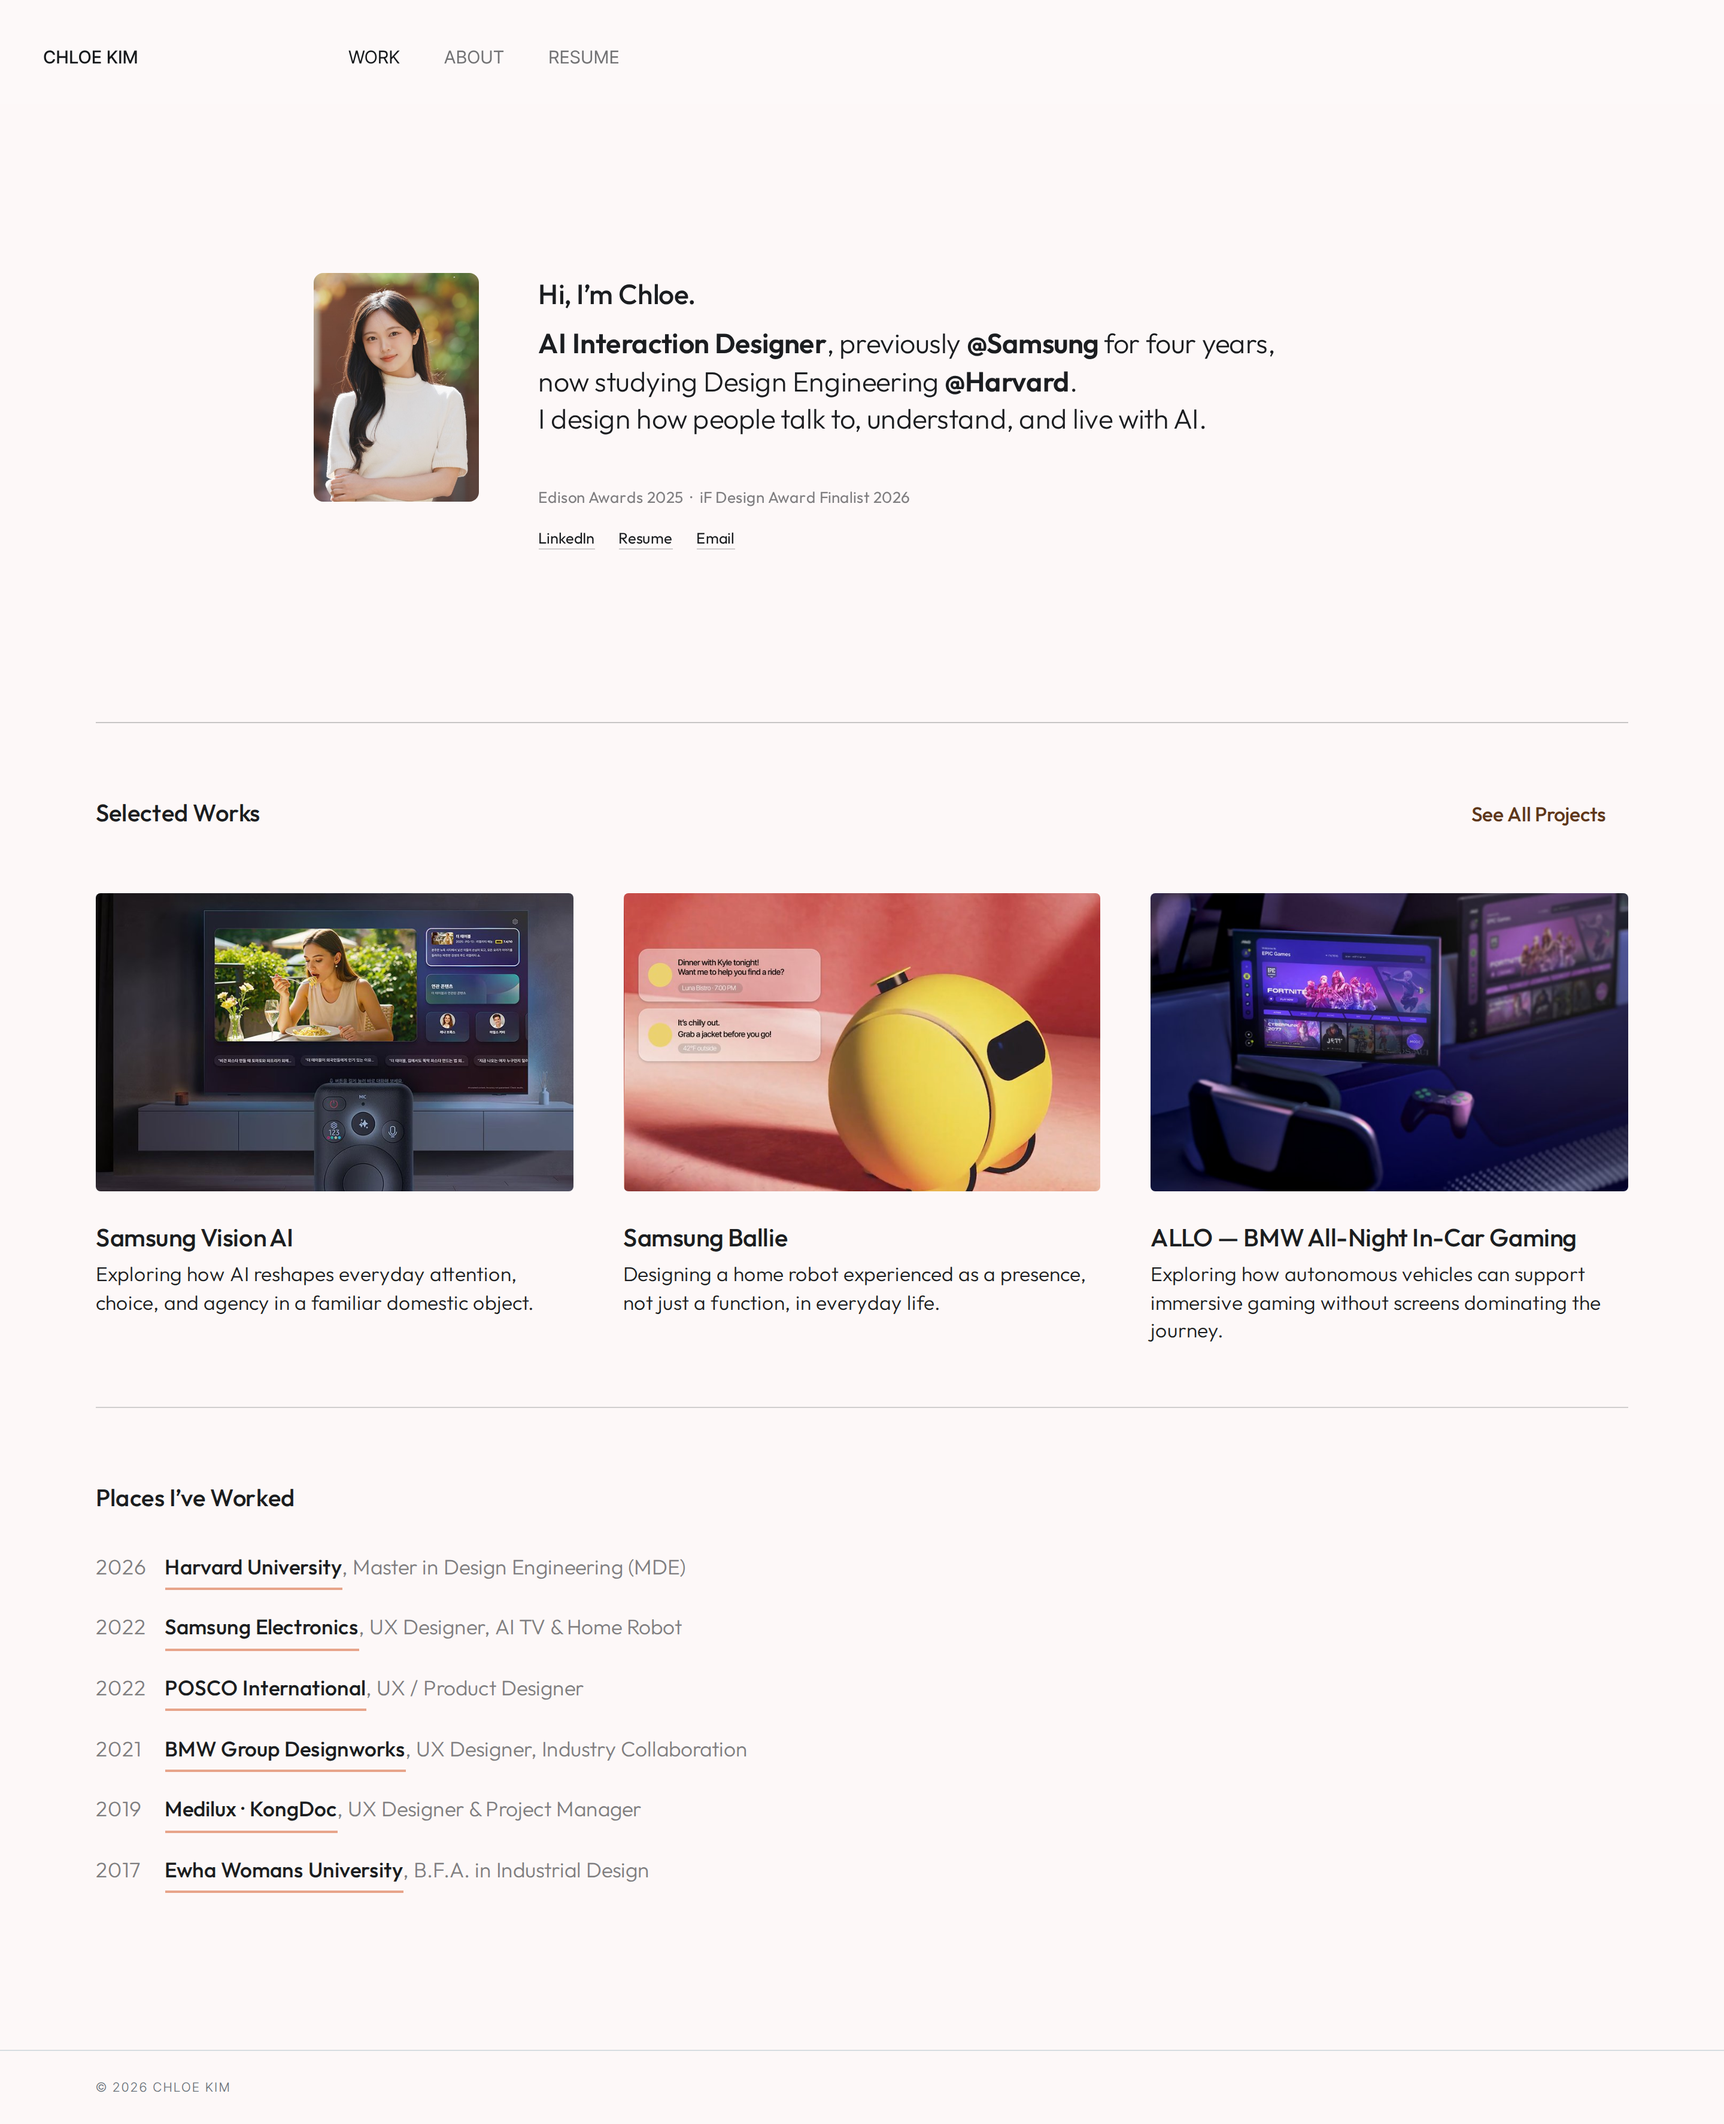
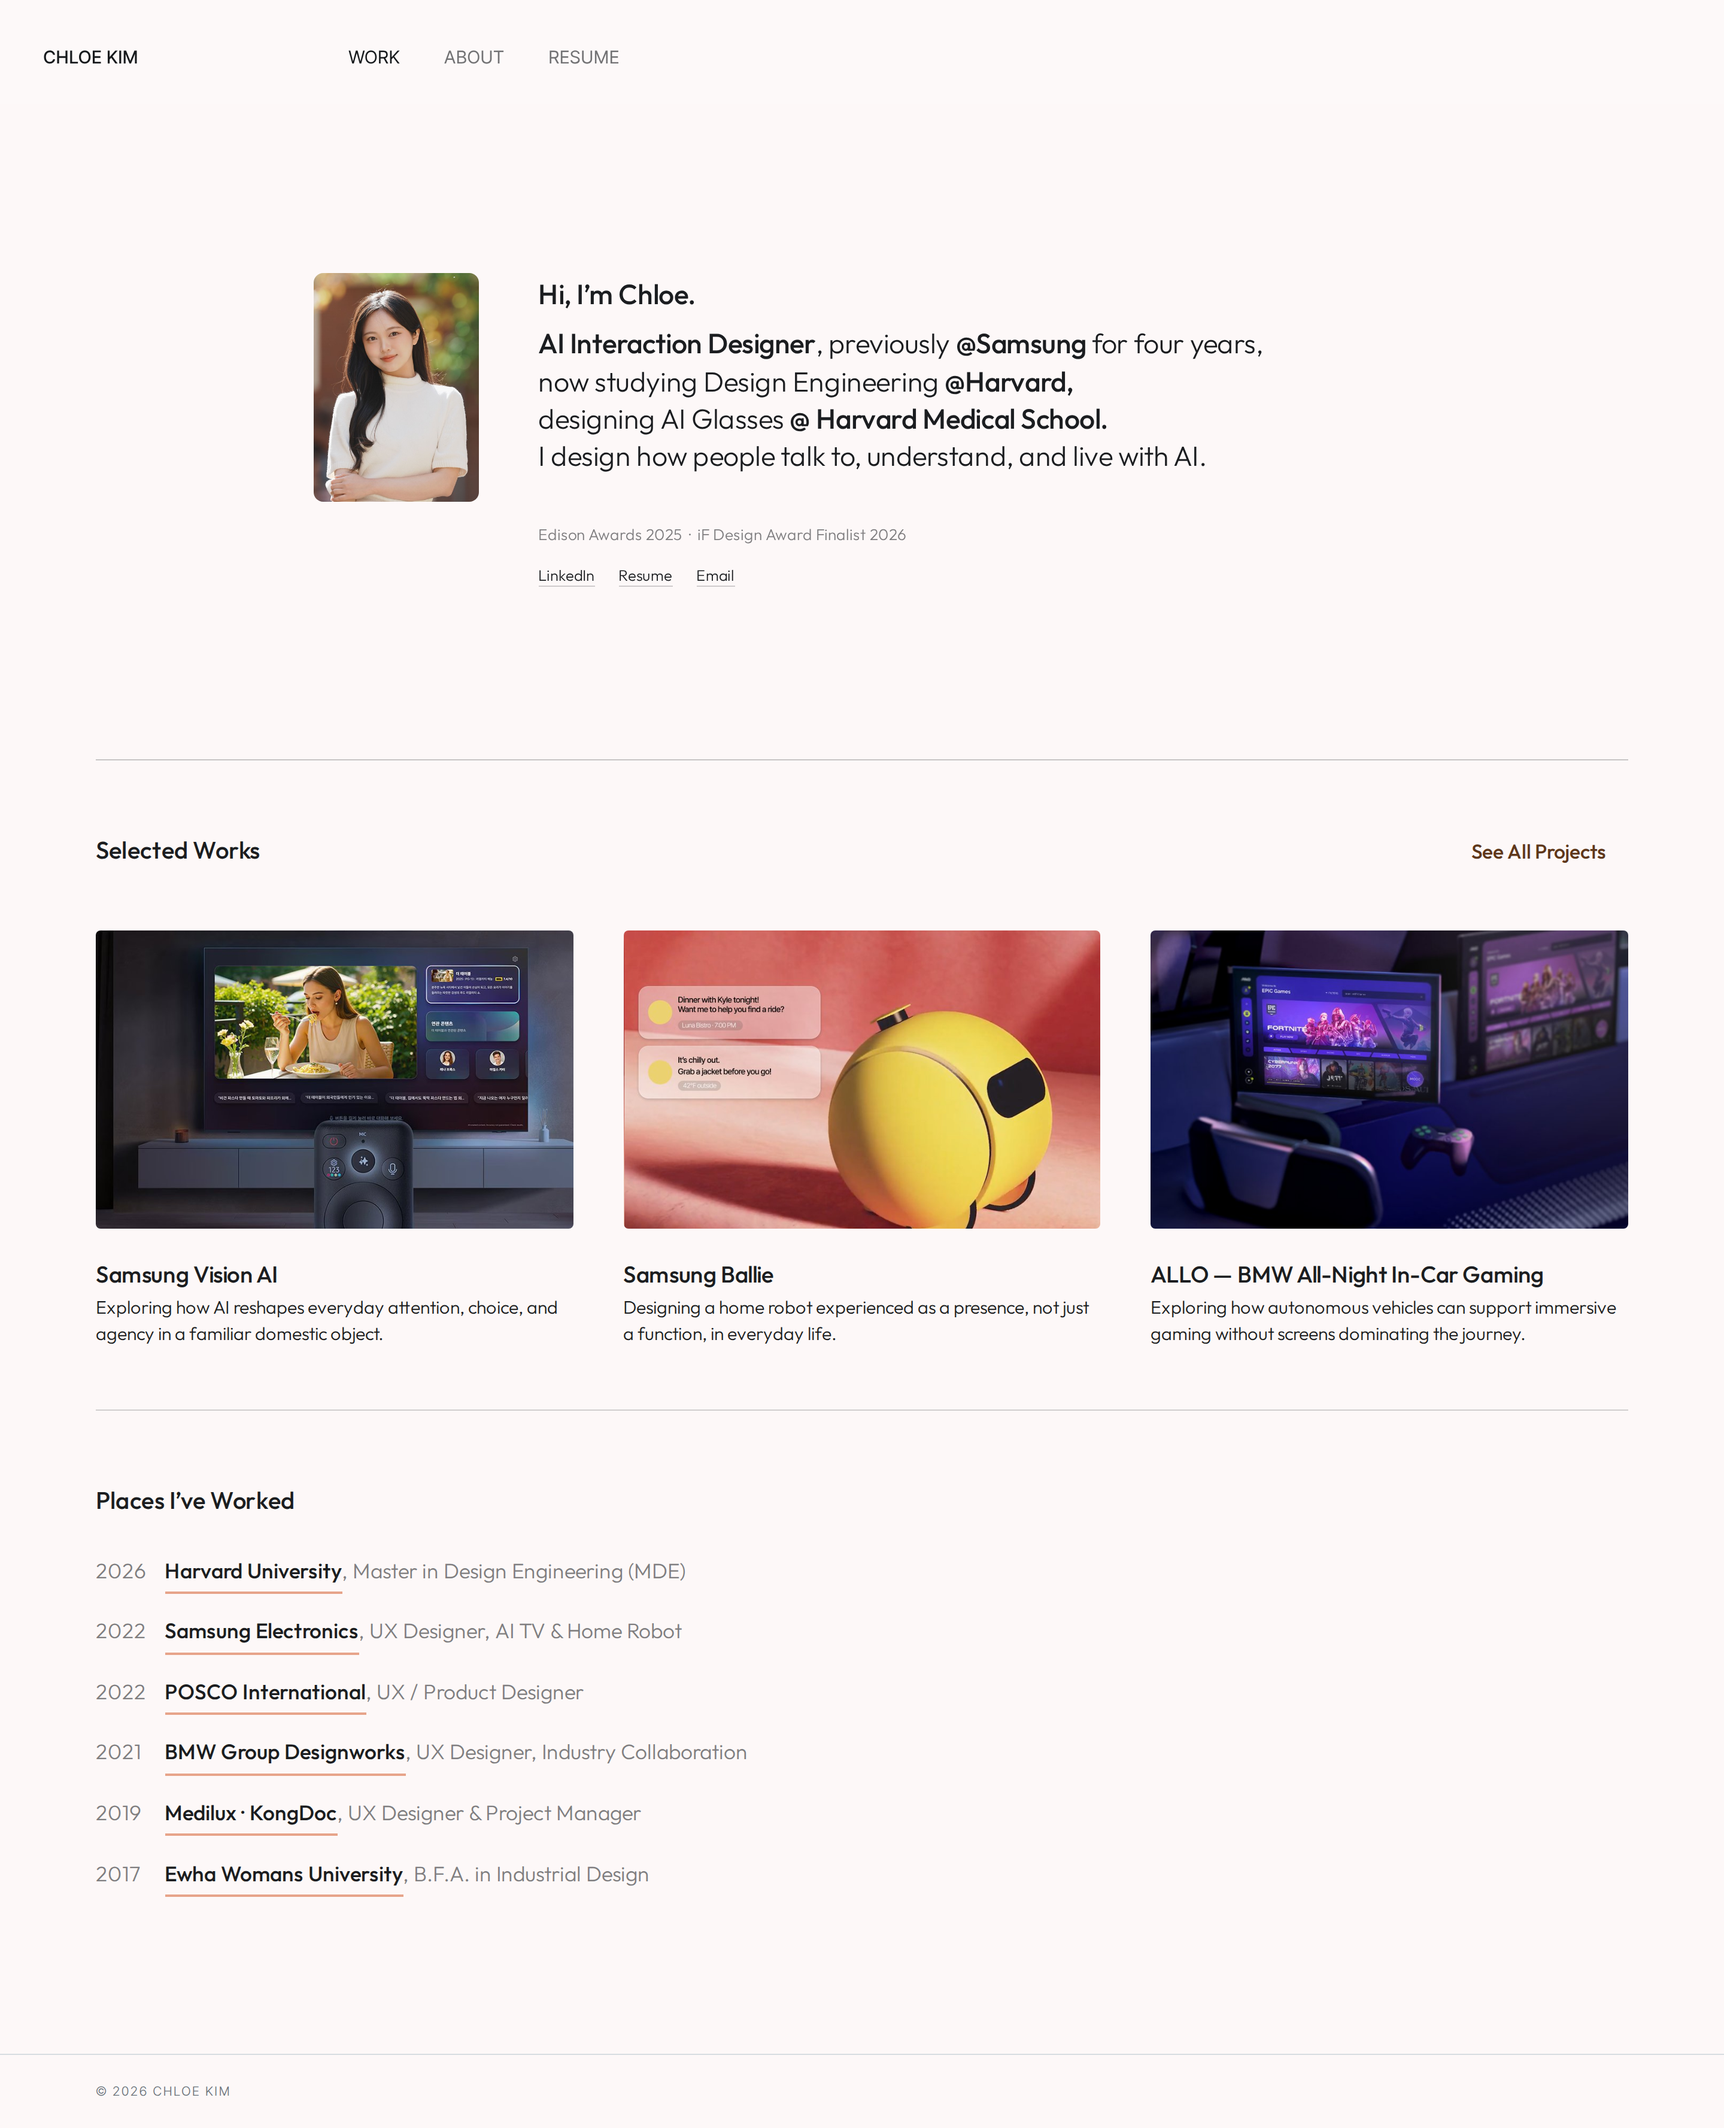
1011

Changed region(s): [[0.0312, 0.372, 0.9688, 0.6511], [0.3125, 0.155, 0.7188, 0.279], [0.0938, 0.7441, 0.1875, 0.8061]]

diff --git a/index.html b/index.html
@@ -269,7 +269,9 @@
   .hx-text{padding-top:0.2rem;}
   .hx-hi{font-size:1.45rem;font-weight:500;margin:0 0 0.75rem;letter-spacing:-0.01em;}
   .hx-lead{font-size:1.45rem;font-weight:300;line-height:1.35;letter-spacing:-0.01em;margin:0 0 2.6rem;color:#1b1d20;}
-  .hx-lead b{font-weight:600;}
+  .hx-lead b{font-weight:500;}
+  .hx-award,.hx-links a{font-weight:300 !important;}
+  .hx-hi{font-weight:500 !important;}
   .hx-award{font-size:0.82rem;color:#7f7e80;margin:0 0 1.1rem;}
   .hx-links{gap:1.25rem;}
   .hx-links a{font-size:0.8rem;border-bottom-color:rgba(23,26,29,0.2);}
@@ -284,8 +286,8 @@
   .work-media{aspect-ratio:1.6 !important;border-radius:4px !important;}
   .work-card{gap:1.6rem !important;}
   .work-body{gap:0.35rem !important;}
-  .work-title{font-family:'Outfit','Pretendard',sans-serif !important;font-size:1.3rem !important;font-weight:500 !important;color:#1b1d20 !important;letter-spacing:-0.01em;}
-  .work-desc{font-family:'Outfit','Pretendard',sans-serif;font-size:1.05rem !important;font-weight:300;color:#1b1d20 !important;line-height:1.4 !important;width:auto !important;}
+  .work-title{font-family:'Outfit','Pretendard',sans-serif !important;font-size:1.2rem !important;font-weight:500 !important;color:#1b1d20 !important;letter-spacing:-0.01em;}
+  .work-desc{font-family:'Outfit','Pretendard',sans-serif;font-size:0.95rem !important;font-weight:300;color:#1b1d20 !important;line-height:1.45 !important;width:auto !important;}
   .places-section{margin:0 var(--g5);padding:4rem 0 7rem;border-top:1px solid #d0cece;}
   .places-section .sec-title{margin-bottom:2.2rem;}
   .places{list-style:none;margin:0;padding:0;font-family:'Outfit','Pretendard',sans-serif;}
